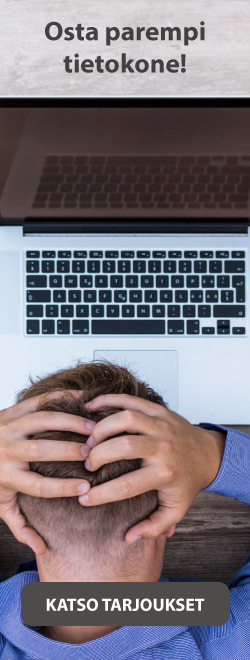
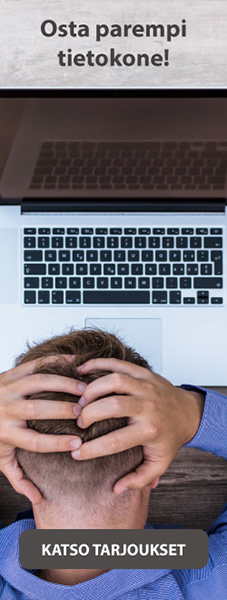
update demo

diff --git a/demo/index.html b/demo/index.html
@@ -9,6 +9,7 @@
     <link rel="stylesheet" href="dialog.css">
     <script src="products.js"></script>
     <script src="cookie.js"></script>
+    <link rel="shortcut icon" href="chartico.png" type="image/x-icon">
 </head>
 <body><nav><span>Shop</span> <div><span>Items</span><span>About</span><span>Chart</span></div></nav>
 <main>
@@ -29,7 +30,7 @@
 
             <p><b>Sivustomme käyttää evästeitä</b></p>
             <p>Palveluntarjoajana haluamme taata asiakkaille mahdollisimman<br>hyvän käyttäjäkokemuksen keräämällä kävijätietoja omiin ja<br>yhteistyö&shy;kumppaneidemme tarkoituksiin.</p>
-            <p>Painamalla "Hyväksy Kaikki" annat suostumuksen kaikkiin alla listattuihin evästekategorioihin.
+            <p>Painamalla "Hyväksy" annat suostumuksen kaikkiin alla listattuihin evästekategorioihin.
             Tarkemmat tiedot evästeiden jaottelusta käyttötarkoituksen mukaan löytyvät "Näytä lisätiedot"<br>-linkin takaa.</p>
             <a href="#">Näytä lisätiedot</a>
 
@@ -42,8 +43,8 @@
             </label></section>
         </div>
             <div class="buttons">
-                <button class="close">Kylkää Kaikki</button>
-                <button class="close" onclick="add_cookie()">Hyväksy Kaikki</button>
+                <button class="close">Kylkää Evästeet</button>
+                <button class="close" onclick="add_cookie()">Hyväksy Evästeet</button>
             </div>
        </div>
    </dialog>

diff --git a/media_queries/style.css b/media_queries/style.css
@@ -1,16 +1,16 @@
 aside{
-    width: 250px;
-    height: 660px;
+    width: 227px;
+    height: 600px;
     background-image: url('img/laptop_ad.jpg');
 }
 @media (max-width:900px)  {
     aside{
-        width: 660px;
-        height: 250px;
+        width: 600px;
+        height: 227px;
         background-image: url('img/tablet_ad.jpg');
     }
 }
-@media (max-width:660px)  {
+@media (max-width:600px)  {
     aside{
         width: 250px;
         height: 250px;

diff --git a/demo/products.js b/demo/products.js
@@ -98,7 +98,7 @@ const generate_shop_items_rec = (chart_items) => {
 }
 
 const generate_shop_items = () => {
-        read_json_data()
+    read_json_data()
     const products = ['grocery-misc', 'baby-needs', 'bread-and-cake', 'baking-needs', 'coupons',
     'juice-sat-cord-ms', 'tea', 'biscuits', 'canned-fish-meat', 'canned-fruit', 'canned-vegetables',
     'breakfast-food', 'cigs-tobacco-pkts', 'cigarette-cartons', 'cleaners-polishers', 'coffee',

diff --git a/demo/cookie.js b/demo/cookie.js
@@ -6,7 +6,7 @@ const update_cookie = (items) =>{
     if(items.length != 0){
 
         let json_str = JSON.stringify(items);
-        Cookies.set('chart', json_str, {expires: 2,  sameSite: 'strict', secure: true})
+        Cookies.set('chart', json_str, {expires: 2,  sameSite:'strict', secure: true})
 
     }
     if (Cookies.get('chart')){
